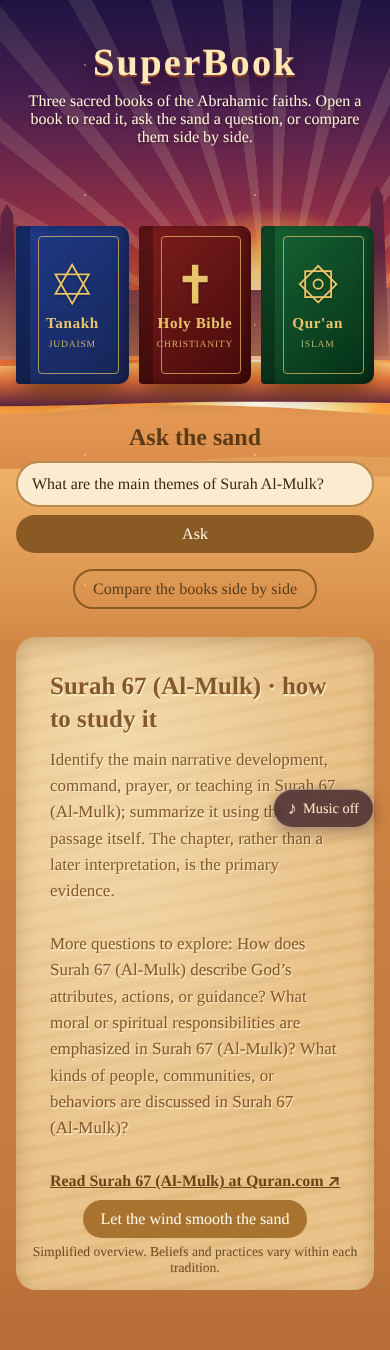
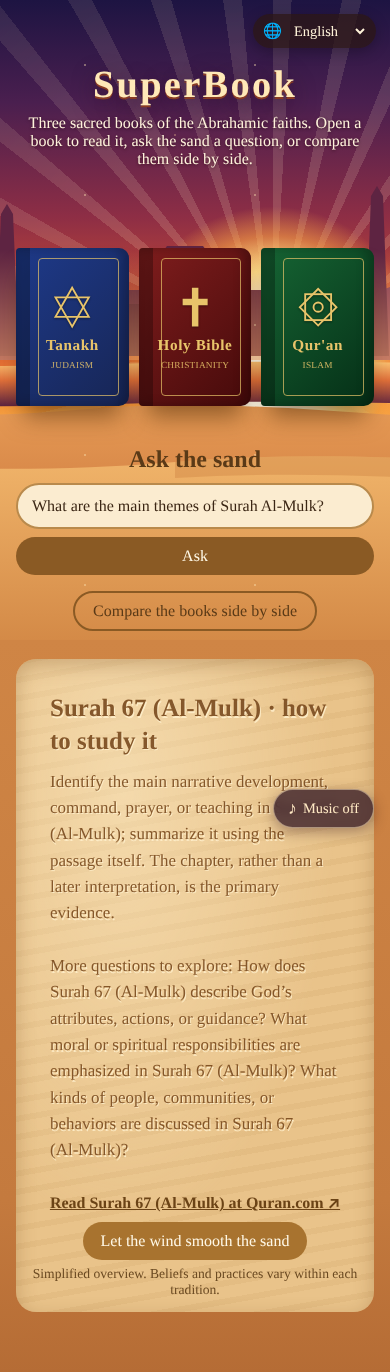
README: the eight languages and where each translation comes from; refresh screenshots

diff --git a/README.md b/README.md
@@ -26,6 +26,7 @@ A web app for exploring the scriptures of the three Abrahamic faiths. Three book
 - **Study questions for 300 chapters and surahs**: ask about one of the 100 Bible chapters, 100 Torah chapters or 100 surahs in the *3,000 Scripture Study Questions* workbook ("What ethical choices arise in Genesis 12?", "Who are the key people in Exodus 3 in the Torah?", "What are the main themes of Surah Al-Mulk?"). The sand explains how to approach that kind of question (main idea, people, God and humanity, ethics, setting, key words, conflict, connections, interpretations or a hard question), suggests more questions to explore, and links to the passage on Bible Gateway, Sefaria or Quran.com. The workbook's suggested answers are study methods rather than summaries, so the sand doesn't claim to say what each chapter contains.
 - **Compare any two or all three**: name books or faiths in a question ("How do the Bible and the Qur'an see Jesus?", "What does Judaism teach about the afterlife?") and the answer covers only those. Ask about a book with no topic ("Tell me about the Torah") and the sand describes it.
 - **Side-by-side table**: compare the books on 19 facts, including age, language, size, authors, region, central figure, holy day and followers
+- **Eight languages**: a picker in the top corner switches the whole site between English, Spanish, French, German, Hebrew, Arabic, Greek and Latin. That covers the page text, all 76 sand answers, the passage backgrounds, the study guide and the comparison table, and you can ask questions in the language you picked ("¿Qué dice el Corán sobre Jesús?", "מה ההקשר ההיסטורי של תהלים 137?"). Hebrew and Arabic switch the layout to right-to-left, and the sand writes from right to left. Your choice is remembered.
 - Works on phones, supports reduced-motion settings, and screen readers get the answer as text
 
 ## Where the texts come from
@@ -37,6 +38,24 @@ The app doesn't store any scripture. Each chapter is loaded when you open it, fr
 | Tanakh | *The Holy Scriptures* (JPS 1917), with Hebrew from *Miqra according to the Masorah* (CC BY-SA) | [Sefaria](https://www.sefaria.org) |
 | Holy Bible | World English Bible (public domain), which includes the books Protestant Bibles leave out | [bible-api.com](https://bible-api.com) |
 | Qur'an | Marmaduke Pickthall (1930), with the Arabic Uthmani text | [alquran.cloud](https://alquran.cloud) |
+
+### In other languages
+
+Where a free, public-domain translation exists, the reader loads it in the language you picked. Where none exists, it shows the English text with a note saying so.
+
+| Language | Tanakh | Holy Bible | Qur'an |
+|---|---|---|---|
+| Spanish | English (JPS 1917) | Reina-Valera 1909 | English (Pickthall) + Arabic |
+| French | Bible du Rabbinat 1899 | Louis Segond 1910 | English (Pickthall) + Arabic |
+| German | Zunz Bible (1838) | Elberfelder 1871 | English (Pickthall) + Arabic |
+| Hebrew | Hebrew only | Hebrew Old Testament (Westminster Leningrad Codex); New Testament in English | English (Pickthall) + Arabic |
+| Arabic | English (JPS 1917) + Hebrew | English (WEB) | Arabic |
+| Greek | English (JPS 1917) + Hebrew | Septuagint and Tischendorf's Greek New Testament | English (Pickthall) + Arabic |
+| Latin | English (JPS 1917) + Hebrew | Clementine Vulgate | English (Pickthall) + Arabic |
+
+Translations come from [getbible.net](https://getbible.net) and [Sefaria](https://www.sefaria.org). The Orthodox books outside the 66-book Protestant canon (Tobit, Judith, Maccabees and others) are always shown from the English World English Bible. The Greek and Latin Bibles number the Psalms the Septuagint and Vulgate way (Psalm 23 is their Psalm 22). No public-domain Qur'an translation exists in these languages, so the Qur'an stays in English with the Arabic beside it.
+
+**About the translations:** the site's text in the seven other languages was translated with help from AI tools and hasn't yet been checked by fluent readers. Corrections, especially for Hebrew, Arabic, Greek and Latin, are welcome.
 
 The free Bible source doesn't have the Letter of Jeremiah, Psalm 151 or the Greek additions to Esther and Daniel (except Susanna and Bel), so those are the only parts of the Orthodox Bible missing from the reader.
 
@@ -52,13 +71,16 @@ The free Bible source doesn't have the Letter of Jeremiah, Psalm 151 or the Gree
 | [`src/answers.js`](src/answers.js) | Question matcher: normalizes spellings (Koran → Qur'an), stems words (prophets → prophet), detects which books a question names, scores topics (specific keywords outweigh general ones) and builds the answer |
 | [`src/facts.js`](src/facts.js) | The facts in the side-by-side comparison table |
 | [`src/sand.js`](src/sand.js) | Canvas animation that writes text as grooves in the sand, with flying grains and a wind-sweep effect |
+| [`src/i18n.js`](src/i18n.js) | The language list, the English page text, and lookups that use the chosen language's pack, falling back to English |
+| [`src/lang/`](src/lang) | One pack per language: page text, book names, all 76 topics, passages, facts, study guide, and the local words the question matcher listens for |
+| [`src/text.js`](src/text.js) | Normalizes questions in any language (accents, Greek final sigma, Arabic letter forms, Hebrew and Arabic prefixes) and maps local book names to English |
 | [`src/app.js`](src/app.js) | Book reader (with caching), question form and page wiring |
 
 ## Run it
 
 ```bash
 python3 -m http.server 8000      # then open http://localhost:8000 (needs internet to load the texts)
-npm test                         # 15 tests, including 131 sample questions routed to the right topic and books
+npm test                         # 29 tests, including 131 sample English questions and samples in every language routed to the right topic and books
 ```
 
 It can also be published for free with GitHub Pages (Settings → Pages → deploy from the `main` branch).
